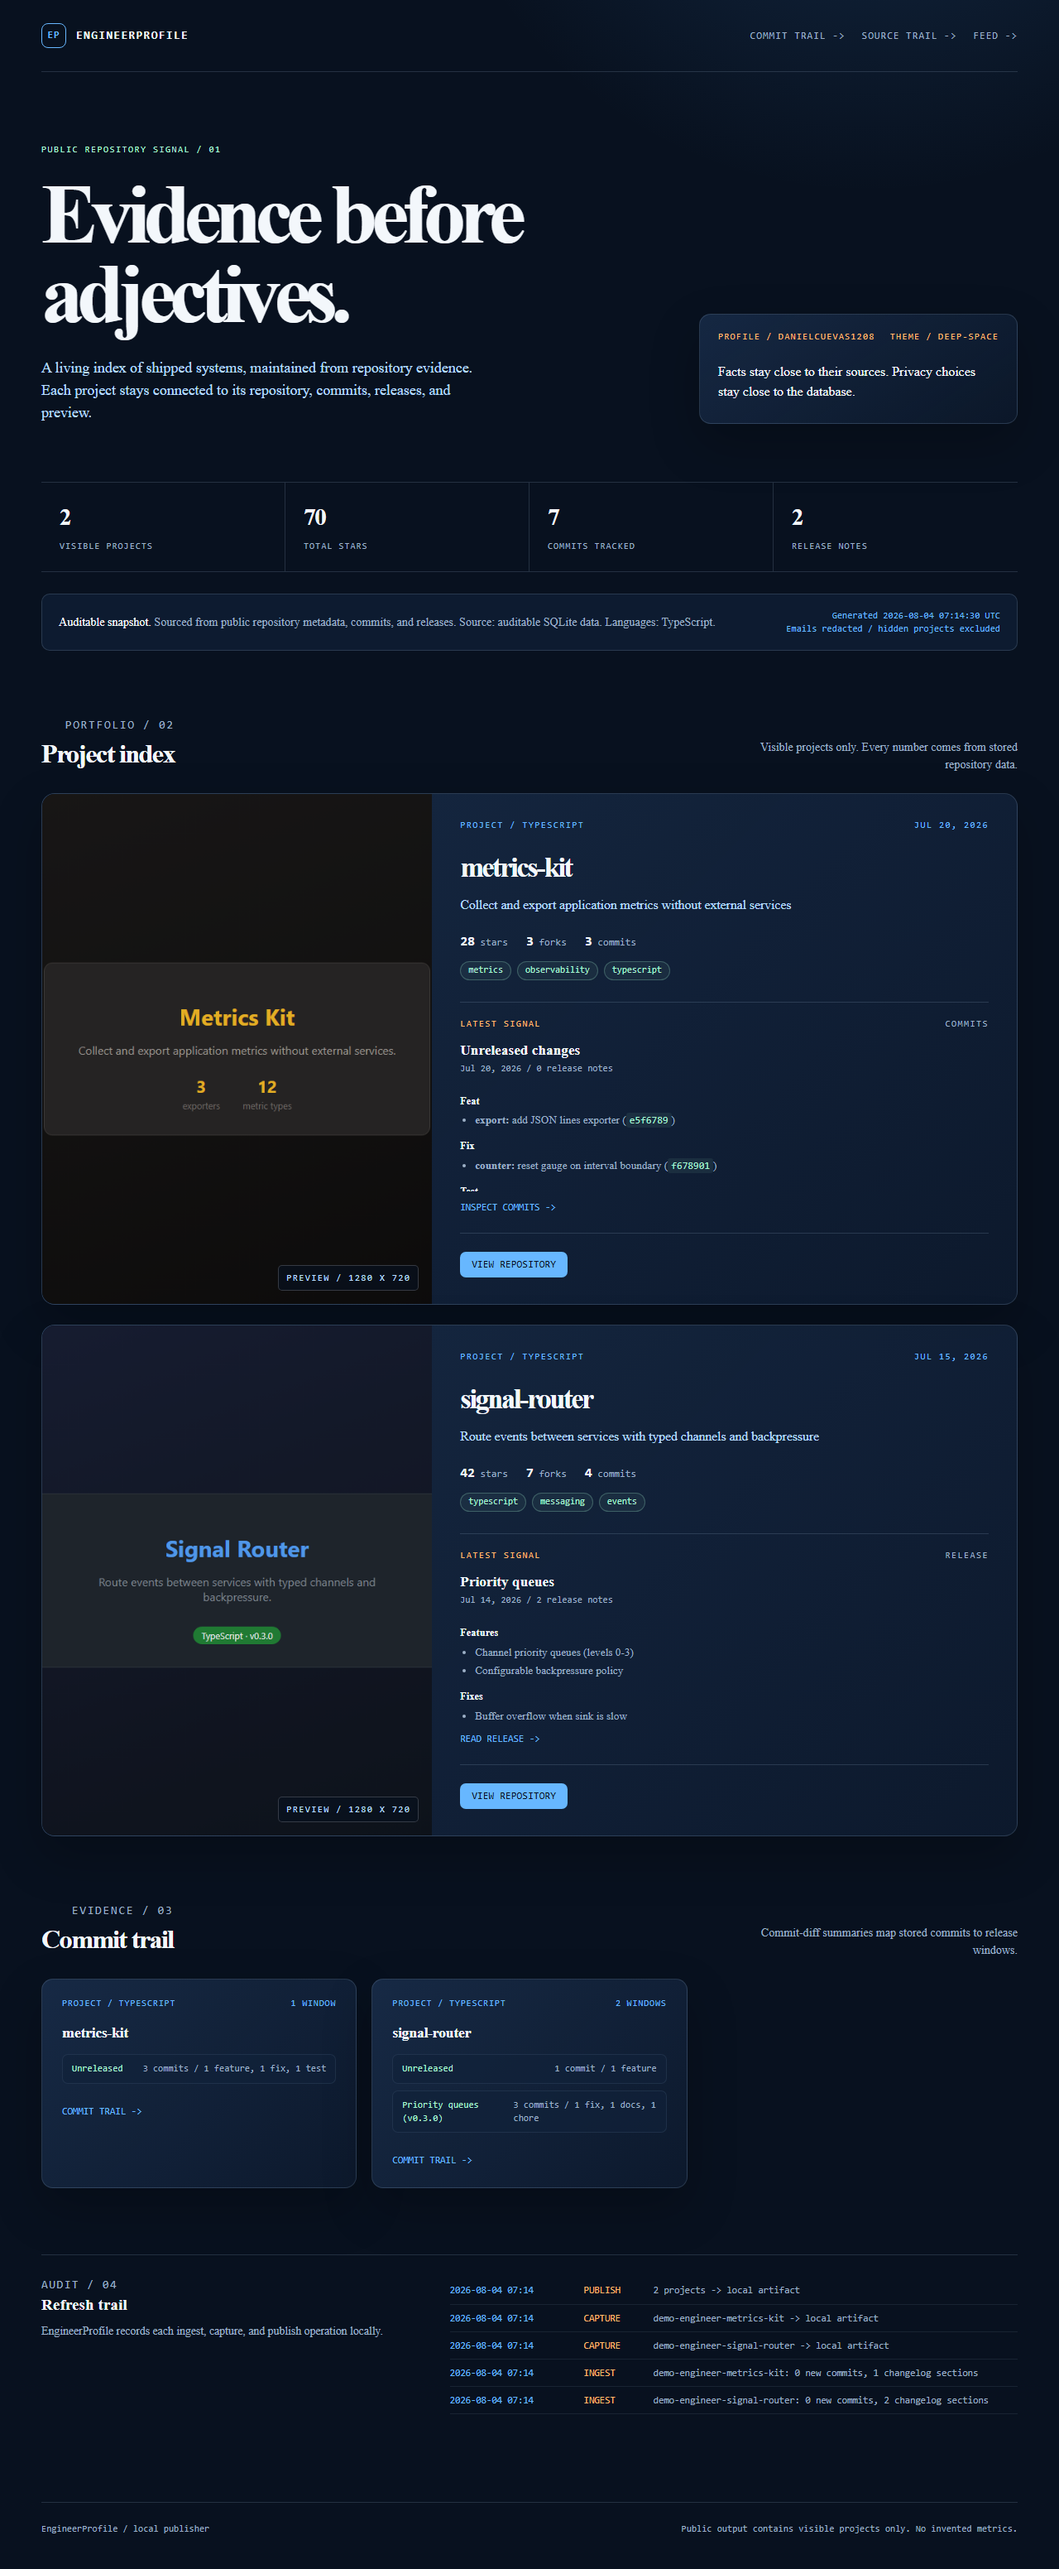
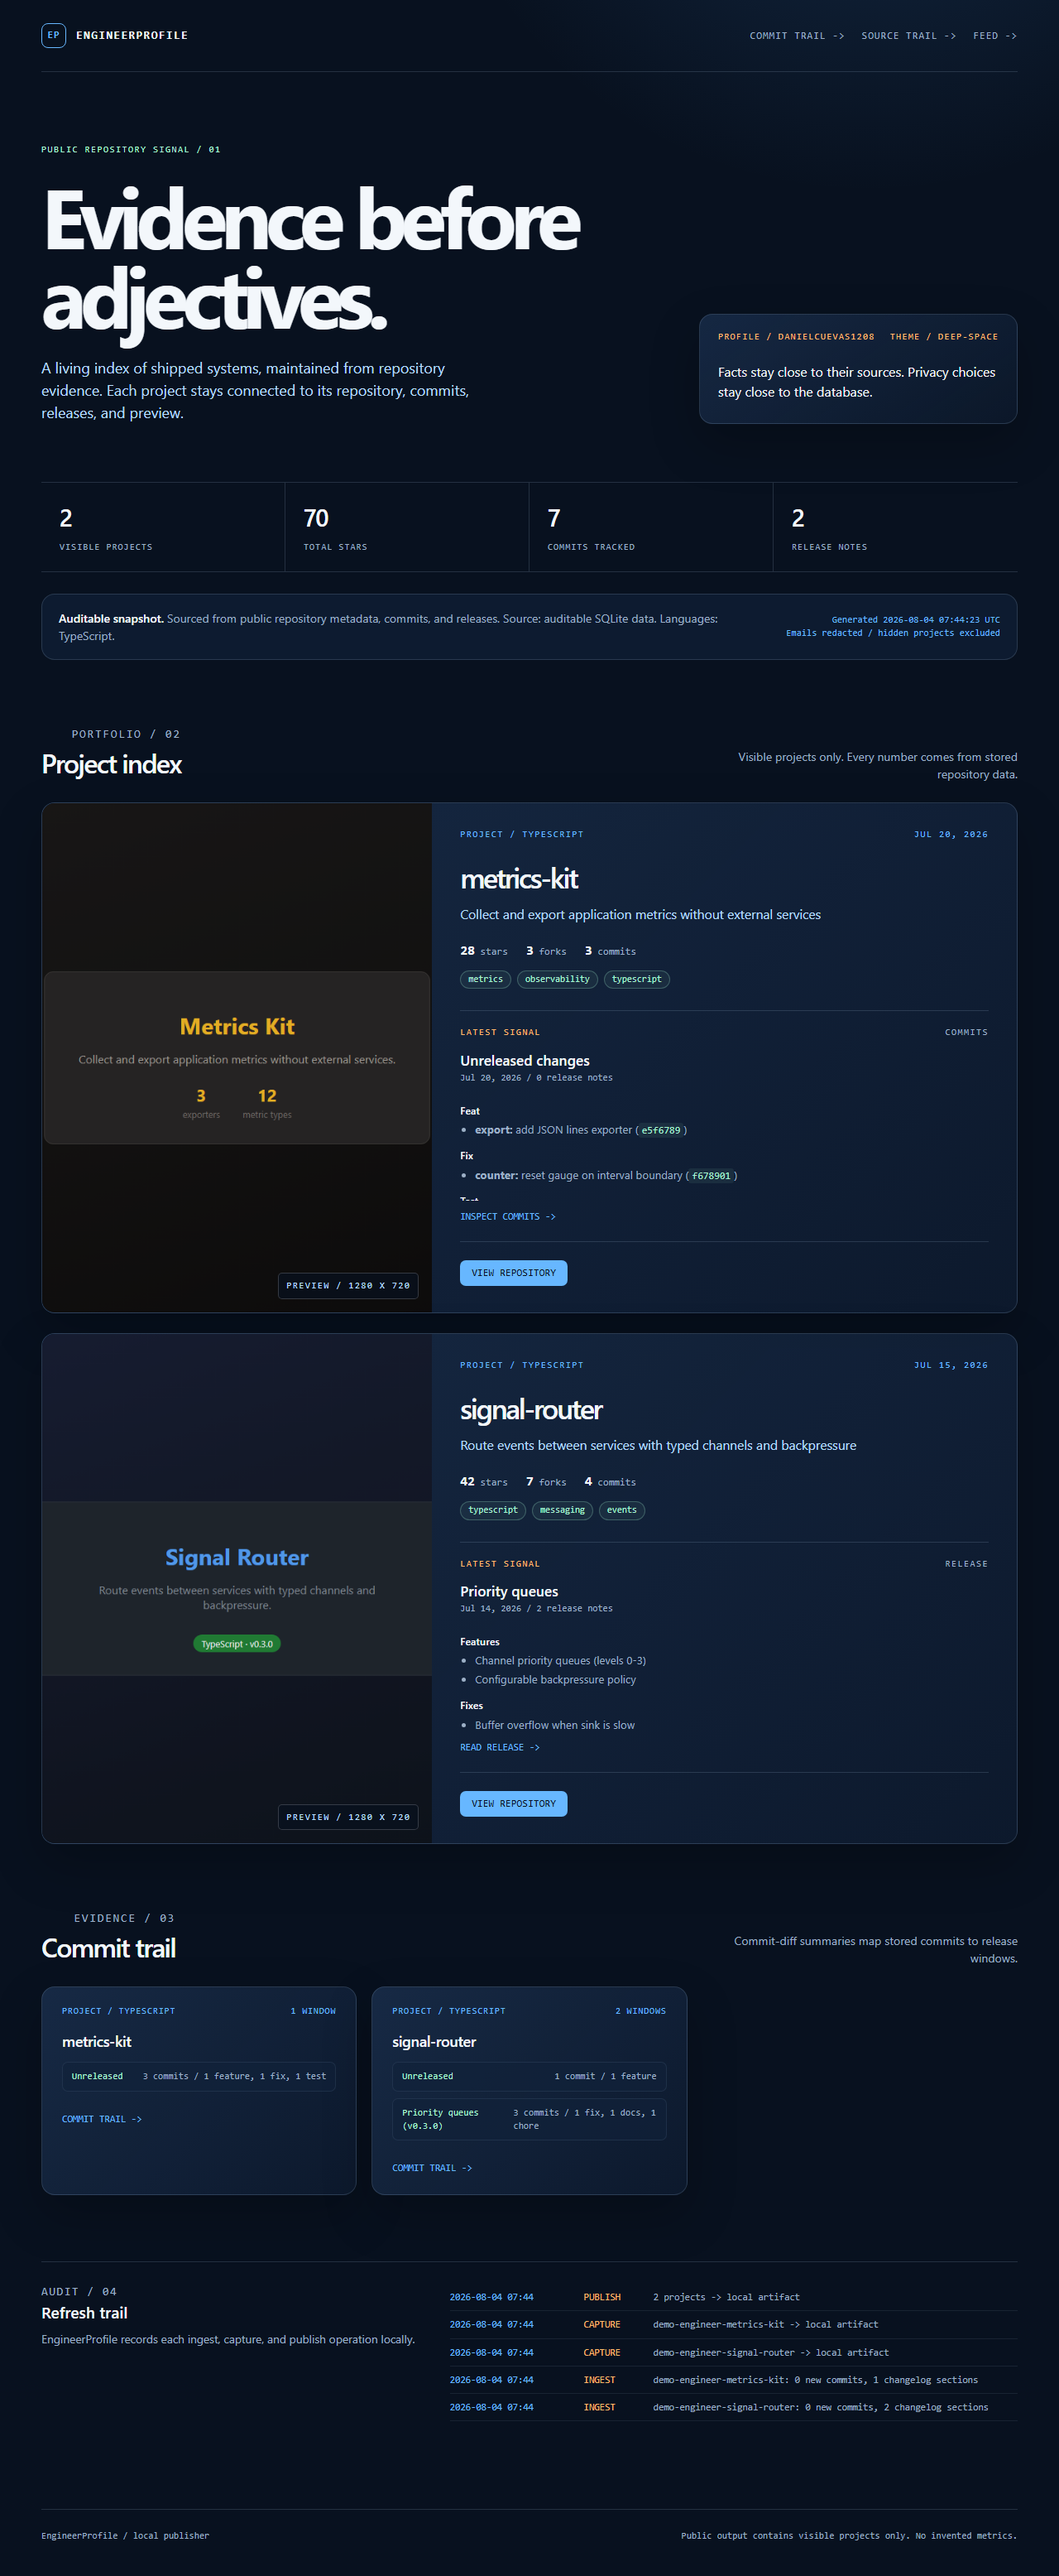
feat: extend engineer profile

diff --git a/src/publish/site.ts b/src/publish/site.ts
@@ -200,7 +200,7 @@ function siteCss(theme: ThemeTokens): string {
 ${themeVariables(theme)}
 * { box-sizing: border-box; }
 html { scroll-behavior: smooth; }
-body { margin: 0; min-width: 320px; background: var(--ink); color: var(--text); line-height: 1.5; }
+body { margin: 0; min-width: 320px; background: var(--ink); color: var(--text); font-family: var(--font); line-height: 1.5; }
 a { color: inherit; }
 .site-shell { min-height: 100vh; background: var(--glow), var(--ink); }
 .container { width: min(1180px, calc(100% - 48px)); margin: 0 auto; }
@@ -215,7 +215,7 @@ a { color: inherit; }
 .kicker { color: var(--mint); margin: 0 0 22px; }
 h1 { max-width: 760px; margin: 0; font-size: clamp(3.2rem, 8vw, 6.4rem); font-weight: 650; letter-spacing: -0.08em; line-height: 0.94; }
 .hero-copy { max-width: 530px; margin: 28px 0 0; color: var(--blue-soft); font-size: 1.12rem; }
-.hero-aside { padding: 22px; border: 1px solid var(--line); border-radius: 14px; background: var(--aside-gradient); box-shadow: var(--shadow); }
+.hero-aside { padding: 22px; border: 1px solid var(--line); border-radius: var(--radius); background: var(--aside-gradient); box-shadow: var(--shadow); }
 .aside-index { display: flex; justify-content: space-between; color: var(--orange); font: 0.68rem/1 "SFMono-Regular", Consolas, monospace; letter-spacing: 0.12em; text-transform: uppercase; }
 .hero-aside p { margin: 24px 0 4px; color: var(--text); font-size: 1rem; }
 .stats-grid { display: grid; grid-template-columns: repeat(4, 1fr); border-top: 1px solid var(--line); border-bottom: 1px solid var(--line); }
@@ -223,14 +223,14 @@ h1 { max-width: 760px; margin: 0; font-size: clamp(3.2rem, 8vw, 6.4rem); font-we
 .stat:last-child { border-right: 0; }
 .stat strong { display: block; color: var(--text); font-size: 1.8rem; font-weight: 600; letter-spacing: -0.04em; }
 .stat span { color: var(--muted); font: 0.7rem/1.3 "SFMono-Regular", Consolas, monospace; letter-spacing: 0.08em; text-transform: uppercase; }
-.audit-panel { display: grid; grid-template-columns: 1fr auto; gap: 20px; align-items: center; margin: 26px 0 80px; padding: 18px 20px; border: 1px solid var(--line); border-radius: 10px; background: var(--audit-bg); }
+.audit-panel { display: grid; grid-template-columns: 1fr auto; gap: 20px; align-items: center; margin: 26px 0 80px; padding: 18px 20px; border: 1px solid var(--line); border-radius: var(--radius); background: var(--audit-bg); }
 .audit-copy { color: var(--muted); font-size: 0.88rem; }
 .audit-copy strong { color: var(--text); font-weight: 500; }
 .audit-time { color: var(--blue); font: 0.7rem/1.4 "SFMono-Regular", Consolas, monospace; text-align: right; }
 .index-header { display: flex; justify-content: space-between; align-items: end; gap: 24px; margin-bottom: 24px; }
 .index-header h2 { margin: 0; font-size: 2rem; font-weight: 550; letter-spacing: -0.05em; }
 .index-header p { max-width: 350px; margin: 0; color: var(--muted); font-size: 0.88rem; text-align: right; }
-.project-card { display: grid; grid-template-columns: minmax(280px, 0.8fr) minmax(0, 1.2fr); overflow: hidden; margin-bottom: 24px; border: 1px solid var(--line); border-radius: 16px; background: var(--panel-gradient); box-shadow: var(--shadow); }
+.project-card { display: grid; grid-template-columns: minmax(280px, 0.8fr) minmax(0, 1.2fr); overflow: hidden; margin-bottom: 24px; border: 1px solid var(--line); border-radius: var(--radius); background: var(--panel-gradient); box-shadow: var(--shadow); }
 .project-visual { position: relative; min-height: 310px; background: var(--visual); }
 .screenshot { display: block; width: 100%; height: 100%; min-height: 310px; object-fit: cover; opacity: 0.9; }
 .placeholder { display: flex; min-height: 310px; align-items: center; justify-content: center; flex-direction: column; gap: 7px; color: var(--blue); background: repeating-linear-gradient(135deg, var(--stripe), var(--stripe) 1px, transparent 1px, transparent 14px); }
@@ -265,7 +265,7 @@ h1 { max-width: 760px; margin: 0; font-size: clamp(3.2rem, 8vw, 6.4rem); font-we
 .muted { color: var(--muted); }
 .commit-trail { margin: 80px 0; }
 .trail-grid { display: grid; grid-template-columns: repeat(auto-fill, minmax(320px, 1fr)); gap: 18px; }
-.trail-card { padding: 22px 24px; border: 1px solid var(--line); border-radius: 14px; background: var(--panel-gradient); box-shadow: var(--shadow); }
+.trail-card { padding: 22px 24px; border: 1px solid var(--line); border-radius: var(--radius); background: var(--panel-gradient); box-shadow: var(--shadow); }
 .trail-topline { display: flex; justify-content: space-between; gap: 12px; color: var(--blue); font: 0.66rem/1.4 "SFMono-Regular", Consolas, monospace; letter-spacing: 0.1em; text-transform: uppercase; }
 .trail-card h3 { margin: 14px 0 12px; font-size: 1.15rem; font-weight: 560; letter-spacing: -0.03em; }
 .trail-card h3 a { text-decoration: none; }
@@ -340,6 +340,7 @@ export interface PublishResult {
   projectCount: number;
   generatedAt: string;
   theme: string;
+  copiedScreenshots: number;
 }
 
 function relativePosixPaths(outputDir: string): string[] {
@@ -486,7 +487,7 @@ export function publishSite(config: PortfolioConfig): PublishResult {
       writeFileSync(join(config.outputDir, `${view.project.slug}-changes.md`), markdown, "utf-8");
     }
 
-    copyScreenshotsToOutput(config);
+    const copiedScreenshots = copyScreenshotsToOutput(config);
 
     const galleryPath = join(config.outputDir, "theme-gallery.html");
     const galleryEntries = [
@@ -570,6 +571,7 @@ export function publishSite(config: PortfolioConfig): PublishResult {
       projectCount: projects.length,
       generatedAt,
       theme: theme.name,
+      copiedScreenshots,
     };
   } finally {
     db.close();

diff --git a/tests/site-css.test.ts b/tests/site-css.test.ts
@@ -1,0 +1,98 @@
+import { describe, it, expect, beforeEach, afterEach } from "vitest";
+import { readFileSync, rmSync } from "node:fs";
+import { join } from "node:path";
+import { ingestRepository } from "../src/ingest/orchestrator.js";
+import { publishSite } from "../src/publish/site.js";
+import { loadFixtureCommits, loadFixtureReleases, loadFixtureRepo } from "../src/fixtures/loader.js";
+import { DEFAULT_CONFIG, type PortfolioConfig, type ThemeConfig } from "../src/types.js";
+
+const TEST_DATA = join("data", "test-site-css");
+const TEST_OUTPUT = join("output", "test-site-css");
+
+function themedConfig(theme: ThemeConfig): PortfolioConfig {
+  return {
+    ...DEFAULT_CONFIG,
+    dataDir: TEST_DATA,
+    outputDir: TEST_OUTPUT,
+    theme,
+    clock: () => "2026-07-31T00:00:00.000Z",
+  };
+}
+
+async function ingestSignalRouter(config: PortfolioConfig) {
+  await ingestRepository(
+    config,
+    { owner: "demo-engineer", repo: "signal-router" },
+    {
+      repo: loadFixtureRepo("signal-router"),
+      commits: loadFixtureCommits("signal-router"),
+      releases: loadFixtureReleases("signal-router"),
+    }
+  );
+}
+
+describe("generated site CSS", () => {
+  beforeEach(() => {
+    rmSync(TEST_DATA, { recursive: true, force: true });
+    rmSync(TEST_OUTPUT, { recursive: true, force: true });
+  });
+
+  afterEach(() => {
+    rmSync(TEST_DATA, { recursive: true, force: true });
+    rmSync(TEST_OUTPUT, { recursive: true, force: true });
+  });
+
+  it("applies the theme font token to the page body", async () => {
+    const config = themedConfig({ name: "deep-space" });
+    await ingestSignalRouter(config);
+    const result = publishSite(config);
+
+    const html = readFileSync(result.indexPath, "utf-8");
+    expect(html).toContain("font-family: var(--font);");
+  });
+
+  it("applies the theme radius token to project cards", async () => {
+    const config = themedConfig({ name: "deep-space" });
+    await ingestSignalRouter(config);
+    const result = publishSite(config);
+
+    const html = readFileSync(result.indexPath, "utf-8");
+    const projectCardRule = html.slice(html.indexOf(".project-card"), html.indexOf(".project-card") + 400);
+    expect(projectCardRule).toContain("border-radius: var(--radius);");
+    expect(projectCardRule).not.toContain("border-radius: 16px");
+  });
+
+  it("applies the radius token to panel surfaces", async () => {
+    const config = themedConfig({ name: "deep-space" });
+    await ingestSignalRouter(config);
+    const result = publishSite(config);
+
+    const html = readFileSync(result.indexPath, "utf-8");
+    for (const selector of [".hero-aside", ".audit-panel", ".trail-card"]) {
+      const rule = html.slice(html.indexOf(selector), html.indexOf(selector) + 320);
+      expect(rule).toContain("border-radius: var(--radius);");
+    }
+  });
+
+  it("reflects radius and font overrides in the generated variables", async () => {
+    const config = themedConfig({ name: "paper", radius: "20px", font: "Georgia, serif" });
+    await ingestSignalRouter(config);
+    const result = publishSite(config);
+
+    const html = readFileSync(result.indexPath, "utf-8");
+    expect(html).toContain("--radius: 20px;");
+    expect(html).toContain("--font: Georgia, serif;");
+    expect(html).toContain("color-scheme: light");
+  });
+
+  it("keeps the default radius and font in the base theme", async () => {
+    const config = themedConfig({ name: "terminal" });
+    await ingestSignalRouter(config);
+    const result = publishSite(config);
+
+    const html = readFileSync(result.indexPath, "utf-8");
+    expect(html).toContain("--radius: 8px;");
+    expect(html).toContain("--font:");
+    expect(html).toContain("ui-monospace");
+  });
+});

diff --git a/src/index.ts b/src/index.ts
@@ -4,7 +4,7 @@ import { existsSync, mkdirSync, writeFileSync } from "node:fs";
 import { Command } from "commander";
 import { ingestOwnerRepos, ingestRepository } from "./ingest/orchestrator.js";
 import { captureAllProjects, captureLocalHtml, closeBrowser } from "./preview/capture.js";
-import { copyScreenshotsToOutput, publishSite } from "./publish/site.js";
+import { publishSite } from "./publish/site.js";
 import { loadAllFixtures } from "./fixtures/loader.js";
 import { openDatabase } from "./db/client.js";
 import { DEFAULT_CONFIG, type PortfolioConfig } from "./types.js";
@@ -67,9 +67,8 @@ addConfigOption(program
     }
 
     const result = publishSite(config);
-    const copied = copyScreenshotsToOutput(config);
     console.log(`Published ${result.projectCount} projects to ${result.indexPath}.`);
-    console.log(`Copied ${copied} available preview screenshots.`);
+    console.log(`Copied ${result.copiedScreenshots} available preview screenshots.`);
     console.log(`Wrote theme gallery to ${result.galleryPath}.`);
     console.log(`Wrote RSS feed to ${result.feedPath}.`);
     console.log("Open output/index.html in a browser.");
@@ -133,9 +132,8 @@ addConfigOption(program
   .action((options) => {
     const config = resolveConfig(options);
     const result = publishSite(config);
-    const copied = copyScreenshotsToOutput(config);
     console.log(`Published ${result.projectCount} projects to ${result.indexPath}.`);
-    console.log(`Copied ${copied} available preview screenshots.`);
+    console.log(`Copied ${result.copiedScreenshots} available preview screenshots.`);
     console.log(`Wrote RSS feed to ${result.feedPath}.`);
   }));
 
@@ -197,9 +195,8 @@ addConfigOption(program
     const config = resolveConfig(options);
     mkdirSync(config.dataDir, { recursive: true });
     const result = publishSite(config);
-    const copied = copyScreenshotsToOutput(config);
     console.log(`Published ${result.projectCount} projects to ${result.indexPath}.`);
-    console.log(`Copied ${copied} available preview screenshots.`);
+    console.log(`Copied ${result.copiedScreenshots} available preview screenshots.`);
     console.log(`Wrote RSS feed to ${result.feedPath}.`);
     const results = deployAll(config);
     if (results.length === 0) {

diff --git a/src/refresh/run.ts b/src/refresh/run.ts
@@ -1,6 +1,6 @@
 import { ingestOwnerRepos } from "../ingest/orchestrator.js";
 import { captureAllProjects } from "../preview/capture.js";
-import { copyScreenshotsToOutput, publishSite, type PublishResult } from "../publish/site.js";
+import { publishSite, type PublishResult } from "../publish/site.js";
 import { deployAll, type DeployResult } from "../deploy/index.js";
 import type { FixtureData } from "../ingest/orchestrator.js";
 import { DEFAULT_CONFIG, type PortfolioConfig } from "../types.js";
@@ -38,13 +38,12 @@ export async function refreshPortfolio(
         (slug, error) => captureErrors.push({ slug, message: error.message })
       );
   const published = publishSite(config);
-  const copiedScreenshots = copyScreenshotsToOutput(config);
   const deployed = deployAll(config);
 
   return {
     ingested: ingested.length,
     captured: captured.length,
-    copiedScreenshots,
+    copiedScreenshots: published.copiedScreenshots,
     captureErrors,
     deployed,
     published,

diff --git a/tests/demo.test.ts b/tests/demo.test.ts
@@ -3,7 +3,7 @@ import { rmSync, existsSync, readFileSync } from "node:fs";
 import { join } from "node:path";
 import { ingestOwnerRepos } from "../src/ingest/orchestrator.js";
 import { captureLocalHtml, closeBrowser } from "../src/preview/capture.js";
-import { publishSite, copyScreenshotsToOutput } from "../src/publish/site.js";
+import { publishSite } from "../src/publish/site.js";
 import { loadAllFixtures } from "../src/fixtures/loader.js";
 import { DEFAULT_CONFIG } from "../src/types.js";
 
@@ -36,10 +36,9 @@ describe("demo pipeline", () => {
     }
 
     const published = publishSite(config);
-    const copied = copyScreenshotsToOutput(config);
 
     expect(published.projectCount).toBe(2);
-    expect(copied).toBe(2);
+    expect(published.copiedScreenshots).toBe(2);
     expect(existsSync(published.indexPath)).toBe(true);
 
     const html = readFileSync(published.indexPath, "utf-8");

diff --git a/tests/site.test.ts b/tests/site.test.ts
@@ -3,7 +3,7 @@ import { rmSync, existsSync, readFileSync } from "node:fs";
 import { join } from "node:path";
 import { openDatabase } from "../src/db/client.js";
 import { ingestRepository } from "../src/ingest/orchestrator.js";
-import { publishSite, copyScreenshotsToOutput } from "../src/publish/site.js";
+import { publishSite } from "../src/publish/site.js";
 import { loadFixtureRepo, loadFixtureCommits, loadFixtureReleases } from "../src/fixtures/loader.js";
 import { DEFAULT_CONFIG } from "../src/types.js";
 

diff --git a/README.md b/README.md
@@ -12,6 +12,7 @@ paths in SQLite. It publishes a static site from these records.
 - Capture repeatable project previews with Playwright.
 - Hide projects and redact author emails before publication.
 - Choose a built-in theme and override accent, radius, and font.
+  The published page applies every override to its CSS tokens.
 - Compare every theme in a generated gallery page.
 - Summarize commit activity between release windows.
 - Publish an RSS feed from visible projects.
@@ -113,6 +114,11 @@ Set the theme with a name from the built-in catalog.
 `font` sets the base font stack.
 All overrides are optional.
 
+The site applies the theme tokens to its generated CSS.
+`--font` sets the base font of the page body.
+`--radius` sets the corner radius of cards and panels.
+The publish step writes these tokens into every generated page.
+
 Run `node dist/index.js themes` to list the catalog.
 The catalog contains `deep-space`, `paper`, and `terminal`.
 The loader rejects unknown theme names and invalid accent colors.
@@ -145,7 +151,7 @@ The loader rejects feed base URLs that are not absolute http(s) URLs.
 
 Deploy syncs the published output to one or more local targets.
 A target must live outside the output directory.
-Sync removes files that are no longer part of the snapshot.
+Deploy removes stale files first, then copies the new snapshot.
 It copies the snapshot, then verifies the key output files.
 Each deploy records an audit entry with the file counts.
 
@@ -291,6 +297,7 @@ The test suite covers these core behaviors:
 - Release source links.
 - Deterministic HTML, manifest, gallery, and feed output.
 - Theme resolution, CSS variable emission, and gallery rendering.
+- Generated CSS token application for font and radius.
 - Local deploy sync, stale cleanup, and verification.
 - Site manifest versioning, determinism, and theme details.
 - Playwright screenshot capture.
@@ -309,7 +316,7 @@ Typecheck, build, and all tests pass locally.
 CI runs the complete test suite on Ubuntu with Chromium installed.
 The fixture pipeline provides deterministic data for repeatable checks.
 The demo output feeds two verification scripts in CI.
-They check the site manifest, the RSS feed, and the deployed snapshot.
+They check the site manifest, the generated CSS tokens, the RSS feed, and the deployed snapshot.
 
 ## Limitations
 
@@ -332,7 +339,7 @@ They check the site manifest, the RSS feed, and the deployed snapshot.
 | --- | --- | --- |
 | v0.1 | Complete | Fixture demo, GitHub ingest, changelog, capture, publish, and privacy controls. |
 | v0.2 | Complete | Checked-in configuration, coordinated refresh command, and scheduled artifact workflow. |
-| v0.3 | Complete | Built-in themes, theme overrides, theme gallery page, versioned site manifest, and local deploy sync. |
+| v0.3 | Complete | Built-in themes, theme overrides, generated CSS tokens for font and radius, theme gallery page, versioned site manifest, and local deploy sync. |
 | v0.4 | Complete | Commit-diff summaries, a commit trail on the site, and an RSS feed. |
 | v0.5 | Next | Remote deploy adapters and preview diffs. |
 | v0.6 | Later | Release brief digests and changelog archiving. |

diff --git a/CONTRIBUTING.md b/CONTRIBUTING.md
@@ -16,6 +16,7 @@ Use fixtures for changes that need repeatable data.
 Do not add credentials, private repository data, or generated output.
 Run `node dist/index.js themes` after theme changes.
 Run `node dist/index.js themes --preview` after gallery changes.
+Check that `output/index.html` applies the theme font and radius tokens.
 Verify `output/site-manifest.json` after publish changes.
 Check the deploy sync with `node dist/index.js deploy`.
 Run `node scripts/verify-manifest.mjs` and `node scripts/verify-deploy.mjs` after CI-only changes.
